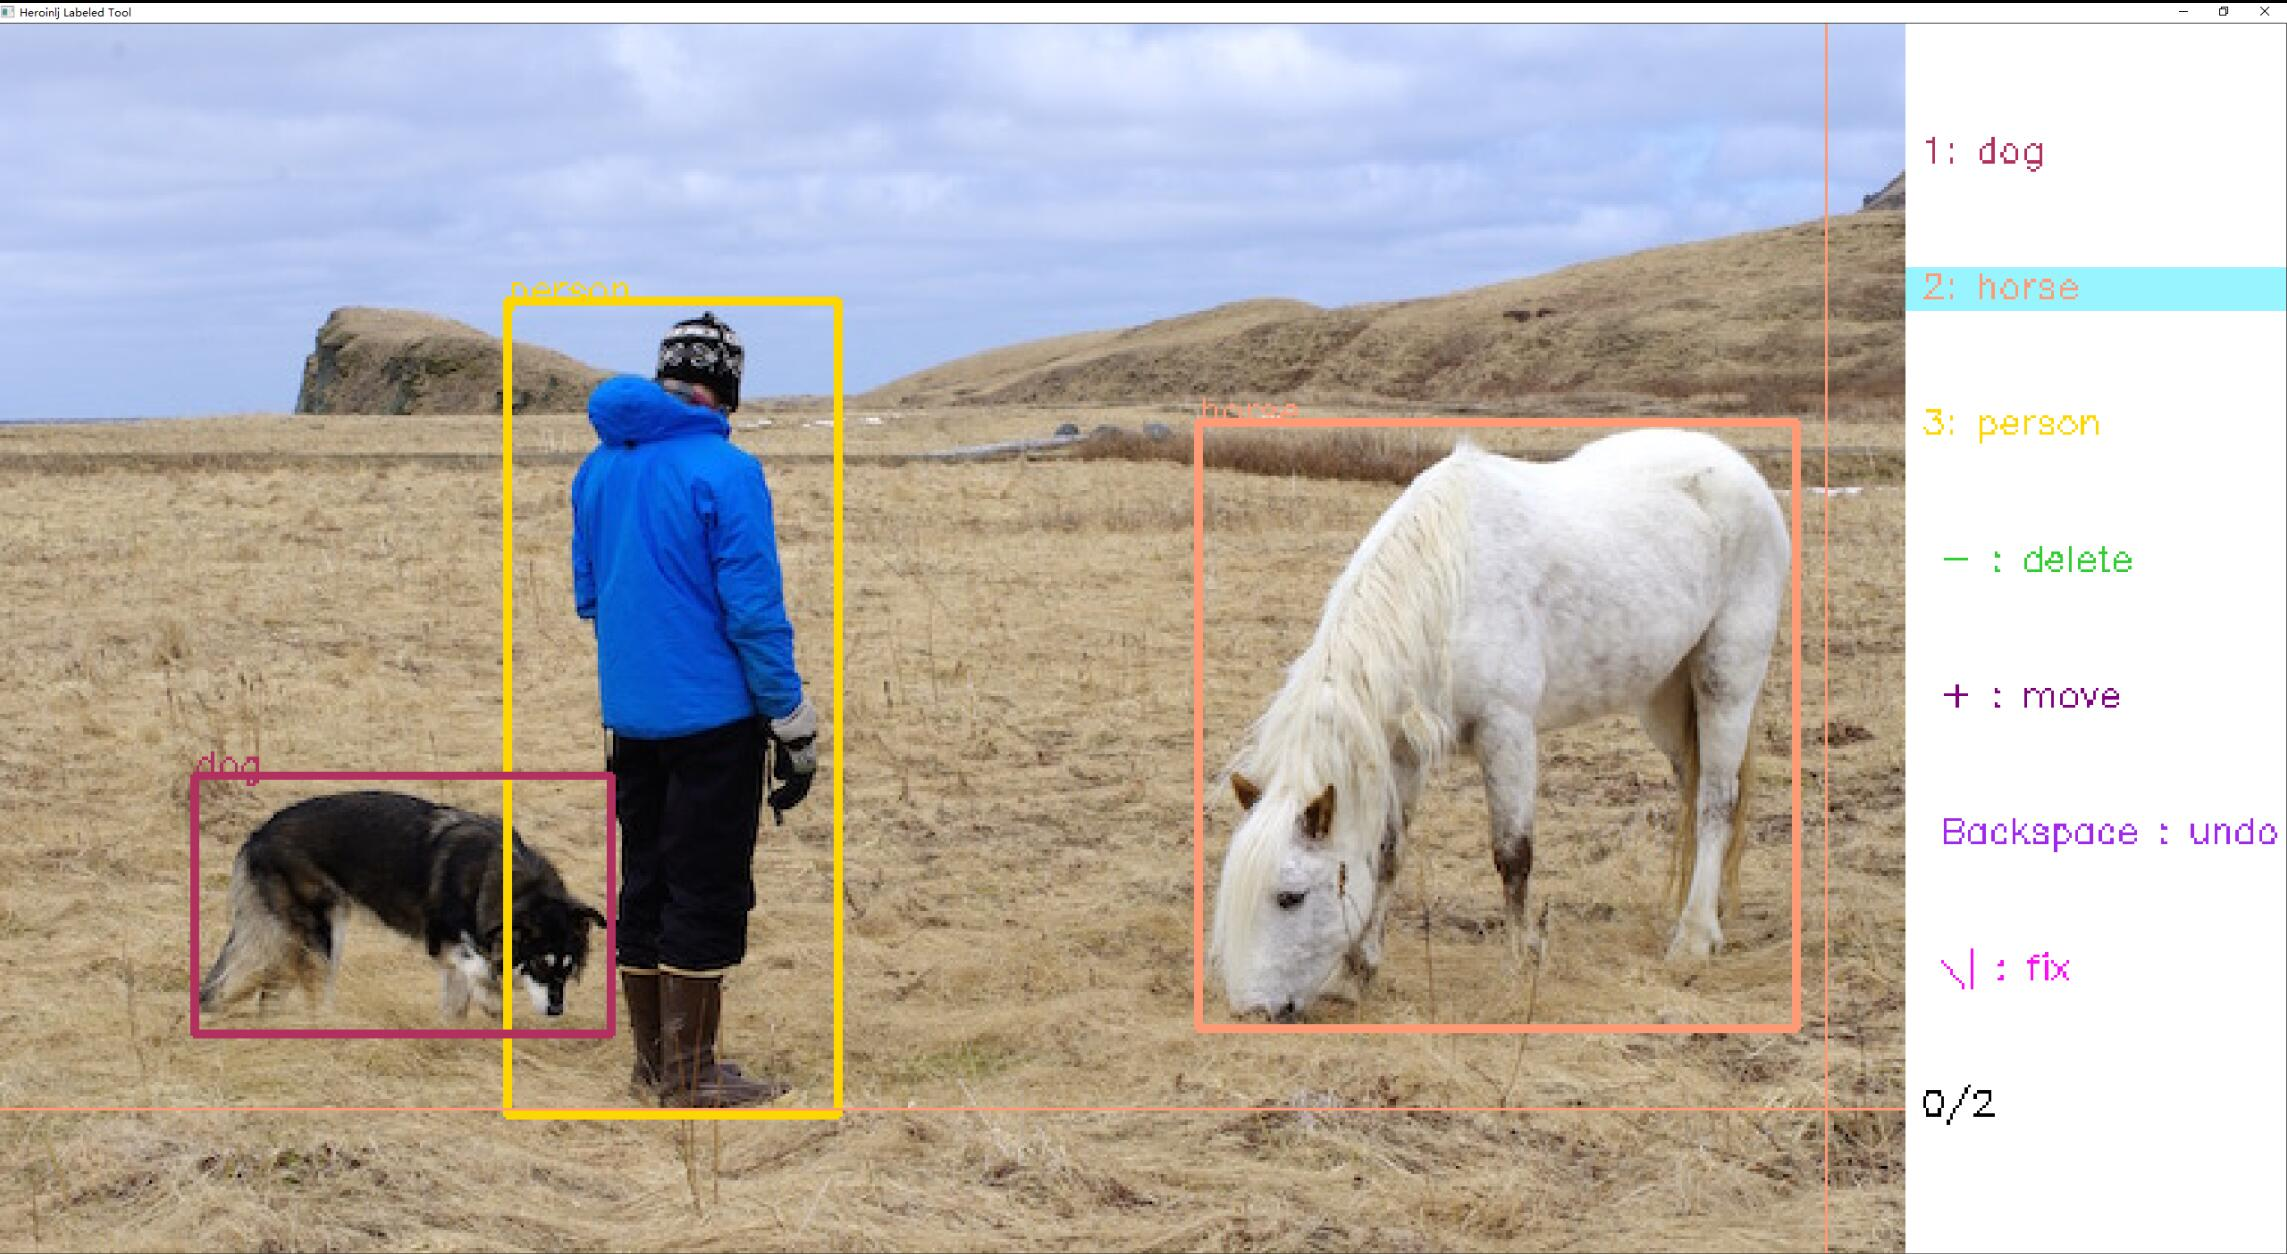
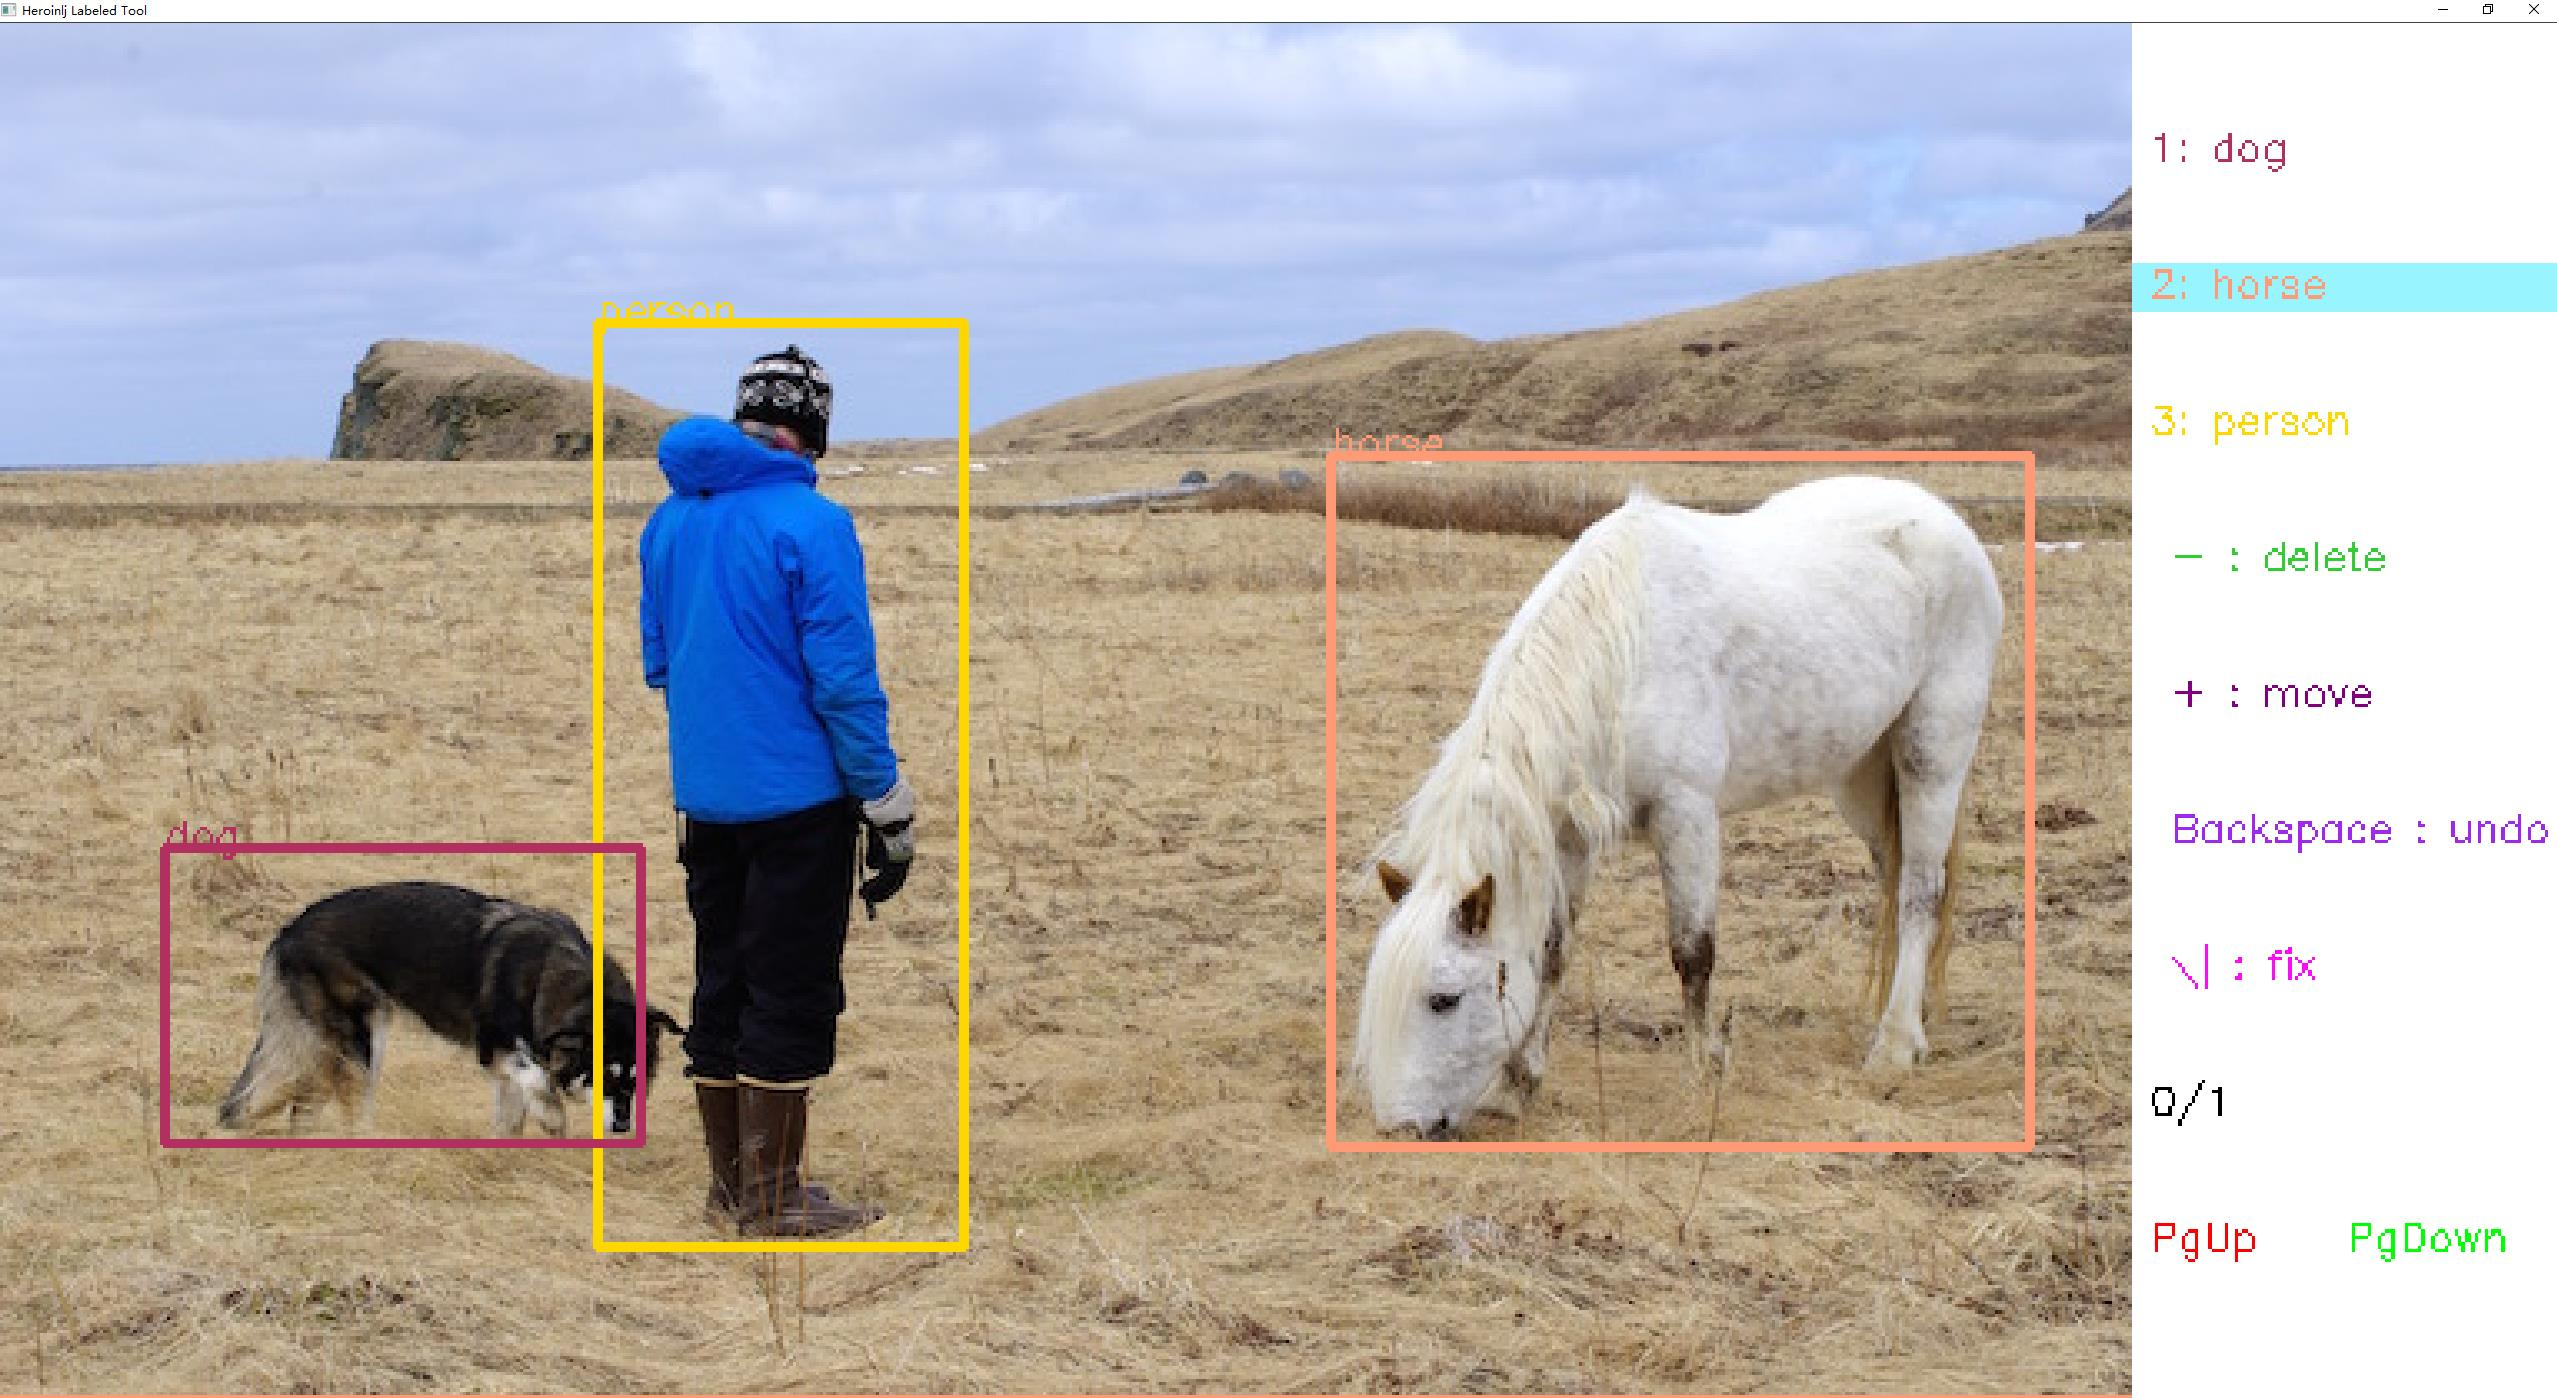
添加鼠标点击切换上下图功能

diff --git a/attr_labeled_tool.py b/attr_labeled_tool.py
@@ -11,6 +11,7 @@ import numpy as np
 import cv2
 import argparse
 from collections import OrderedDict
+from pynput.keyboard import Key, Controller
 """
 图像目标框属性附加标注脚本
 Author: Heroinlj
@@ -145,6 +146,8 @@ class CLabeled:
         # 删除选框方式, 默认左上点, 1为中心点
         self.select_type = 0
         self._may_make_dir()
+        # 模拟按键事件
+        self.keyboard = Controller()
 
     # 重置
     def _reset(self):
@@ -285,9 +288,18 @@ class CLabeled:
         highlight_idx = -1
         if self.width < x <= (self.width +
                               self.class_width) and 0 <= y <= self.height:
-            per_class_h = int(min(self.height, 600) / (self.class_num + 2))
-            self.label_index = min(max(int((y - 5) / per_class_h), 0),
-                                   self.class_num - 1)
+            per_class_h = int(min(self.height, 2000) / (self.class_num + 3))
+            select_mode = max(int((y - 5) / per_class_h), 0)
+            if select_mode > self.class_num:
+                if (x - self.width) < self.class_width / 2:
+                    self.keyboard.press('a')
+                    self.keyboard.release('a')
+                elif (x - self.width) >= self.class_width / 2:
+                    self.keyboard.press('d')
+                    self.keyboard.release('d')
+            else:
+                self.label_index = min(select_mode,
+                                    self.class_num - 1)
         x, y = self._roi_limit(x, y)
         self._update_win_image(dst)
         cv2.imshow(self.windows_name, self.win_image)
@@ -754,7 +766,7 @@ class CLabeled:
 
     # 更新整个窗口的显示
     def _update_win_image(self, image):
-        per_class_h = int(min(self.height, 600) / (self.class_num + 2))
+        per_class_h = int(min(self.height, 2000) / (self.class_num + 3))
         font_size = max(1, int(min(self.width, self.height) / 600))
         self.win_image = np.zeros(
             [self.height, self.class_width + self.width, 3], dtype=np.uint8)
@@ -783,6 +795,14 @@ class CLabeled:
                     f"{self.current_label_index}/{self.total_image_number}",
                     (self.width + 5, (idx + 2) * per_class_h), self.font_type,
                     min(font_size * 0.4, 1.0), (0, 0, 0), font_size)
+        cv2.putText(self.win_image,
+                    f"PgUp",
+                    (self.width + 5, (idx + 3) * per_class_h), self.font_type,
+                    min(font_size * 0.4, 1.0), (0, 0, 255), font_size)
+        cv2.putText(self.win_image,
+                    f"PgDown",
+                    (self.width + self.class_width//2, (idx + 3) * per_class_h), self.font_type,
+                    min(font_size * 0.4, 1.0), (0, 255, 0), font_size)
 
         self.win_image[:, :self.width, :] = image
 

diff --git a/labeled_tool.py b/labeled_tool.py
@@ -11,6 +11,7 @@ import numpy as np
 import cv2
 import argparse
 from collections import OrderedDict
+from pynput.keyboard import Key, Controller
 """
 图像标注脚本, 生成yolo格式的标注文件
 Author: Heroinlj
@@ -131,6 +132,8 @@ class CLabeled:
         # 删除选框方式, 默认左上点, 1为中心点
         self.select_type = 0
         self._may_make_dir()
+        # 模拟按键事件
+        self.keyboard = Controller()
 
     # 重置
     def _reset(self):
@@ -256,9 +259,18 @@ class CLabeled:
         highlight_idx = -1
         if self.width < x <= (self.width +
                               self.class_width) and 0 <= y <= self.height:
-            per_class_h = int(min(self.height, 600) / (self.class_num + 2))
-            self.label_index = min(max(int((y - 5) / per_class_h), 0),
-                                   self.class_num - 1)
+            per_class_h = int(min(self.height, 2000) / (self.class_num + 3))
+            select_mode = max(int((y - 5) / per_class_h), 0)
+            if select_mode > self.class_num:
+                if (x - self.width) < self.class_width / 2:
+                    self.keyboard.press('a')
+                    self.keyboard.release('a')
+                elif (x - self.width) >= self.class_width / 2:
+                    self.keyboard.press('d')
+                    self.keyboard.release('d')
+            else:
+                self.label_index = min(select_mode,
+                                    self.class_num - 1)
         x, y = self._roi_limit(x, y)
         self._update_win_image(dst)
         cv2.imshow(self.windows_name, self.win_image)
@@ -628,7 +640,7 @@ class CLabeled:
     
     # 更新整个窗口的显示
     def _update_win_image(self, image):
-        per_class_h = int(min(self.height, 600) / (self.class_num + 2))
+        per_class_h = int(min(self.height, 2000) / (self.class_num + 3))
         font_size = max(1, int(min(self.width, self.height) / 600))
         self.win_image = np.zeros(
             [self.height, self.class_width + self.width, 3], dtype=np.uint8)
@@ -657,7 +669,14 @@ class CLabeled:
                     min(font_size * 0.4, 1.0),
                     (0, 0, 0),
                     font_size)
-
+        cv2.putText(self.win_image,
+                    f"PgUp",
+                    (self.width + 5, (idx + 3) * per_class_h), self.font_type,
+                    min(font_size * 0.4, 1.0), (0, 0, 255), font_size)
+        cv2.putText(self.win_image,
+                    f"PgDown",
+                    (self.width + self.class_width//2, (idx + 3) * per_class_h), self.font_type,
+                    min(font_size * 0.4, 1.0), (0, 255, 0), font_size)
         self.win_image[:, :self.width, :] = image
 
     # 从文本读取标注框信息

diff --git a/readme.md b/readme.md
@@ -35,6 +35,7 @@ python labeled_tool.py -c voc.json
 * 撤销当前删除
 * 类别过滤标注
 * 鼠标右键单击切换id
+* 鼠标点击进行上下图切换
 
 ## 说明
 
@@ -241,6 +242,7 @@ python attr_labeled_tool.py -c voc_attr.json
 * 类别过滤标注
 * 鼠标右键单击切换id
 * 属性标注
+* 鼠标点击进行上下图切换
 
 ## 说明
 
@@ -313,12 +315,13 @@ python attr_labeled_tool.py -c voc_attr.json
                \- labels  (可选)
 
   * decay_time: 自动播放等待时间， 单位ms
-* pixel_size： 图像显示最大像素
+  
+  * pixel_size： 图像显示最大像素
   * select_type： 选择框模式，默认取离左上点最近框, 取值为1可改为取离中心最近框
-* checkpoint_name: 已标注记录文件, 用来支持多人同时标注
+  * checkpoint_name: 已标注记录文件, 用来支持多人同时标注
   * total_class_names： 标注所有类别列表
   * class_names： 当前标注只展示的类别列表
   * colors: 标注颜色列表
-* attrs： 标注所有属性列表
+  * attrs： 标注所有属性列表
 
 > 注： 属性框id从1开始记， 0保留为非目标对象的标识。如对person的gender属性进行标注，gender为male记为1， 而该图中存在其他类别(如dog), 该类别在gender属性位记为0.
